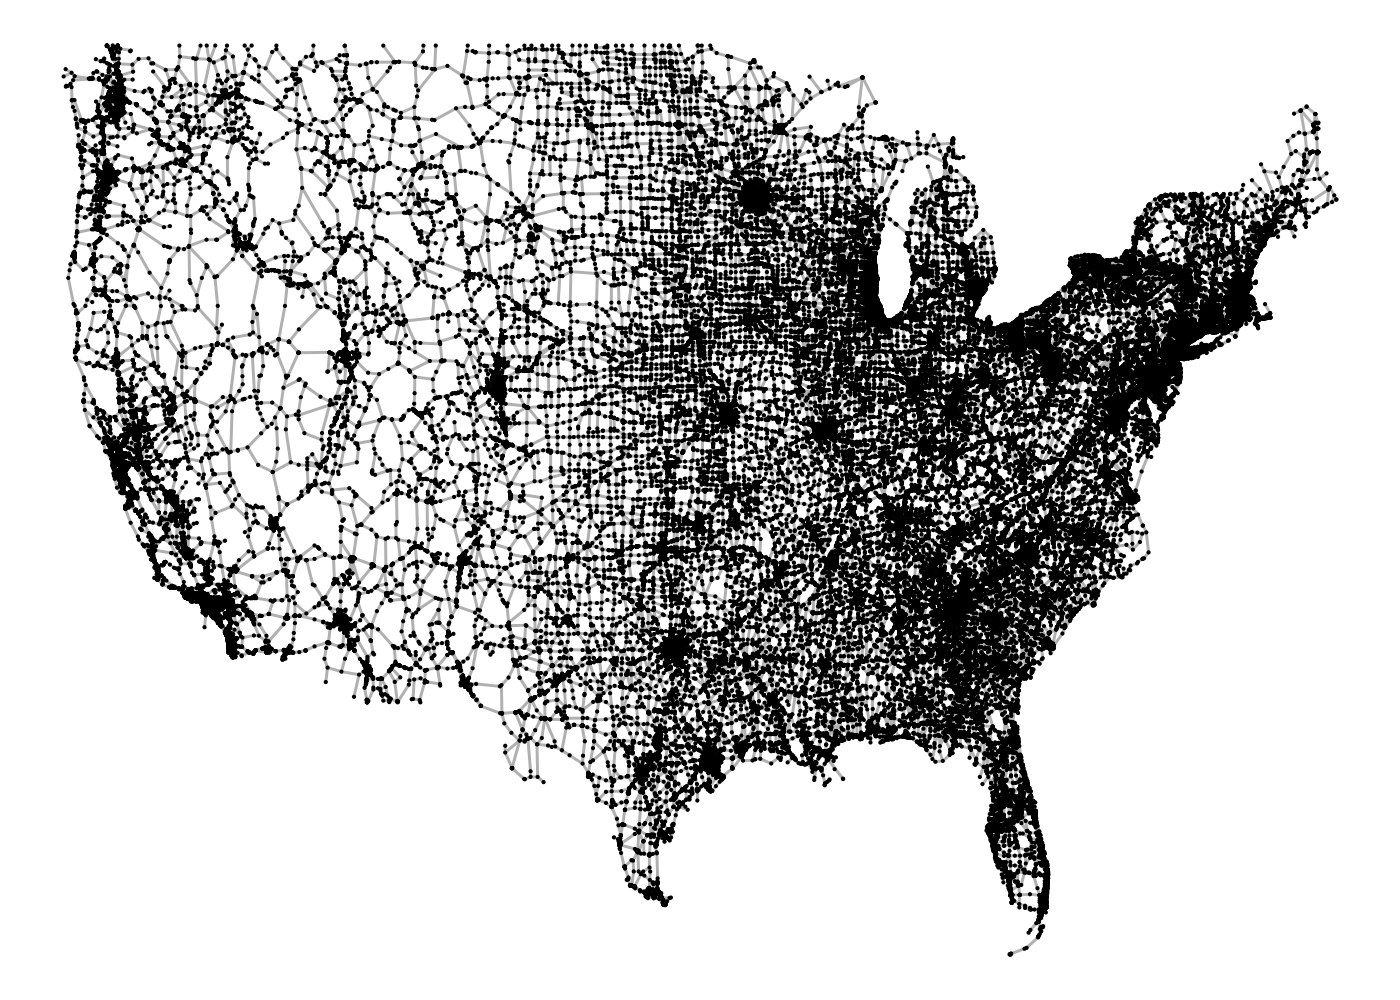
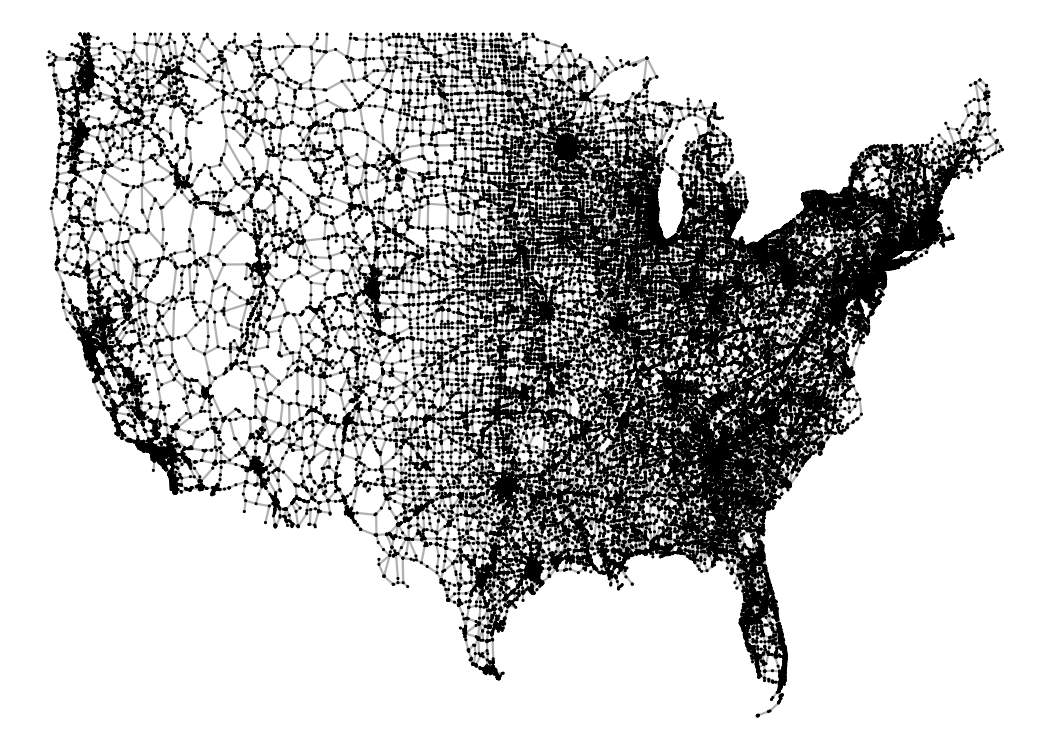
resize README img

diff --git a/README.md b/README.md
@@ -6,7 +6,7 @@ status](https://travis-ci.org/fabnavarro/gasper.svg?branch=master)](https://trav
 [![CRAN\_Status\_Badge](http://www.r-pkg.org/badges/version/gasper)](http://cran.r-project.org/package=gasper)
 
 Graph signal processing in R.
-<img src="README_files/figure-markdown_github/unnamed-chunk-1-1.png" width="50%" style="display: block; margin: auto;" />
+<img src="README_files/figure-markdown_github/unnamed-chunk-1-1.png" width="60%" style="display: block; margin: auto;" />
 
 Download and Install
 --------------------
@@ -79,4 +79,4 @@ download_graph(graphname,groupname)
 plot_graph(`usroads-48`, size = 0.05)
 ```
 
-<img src="README_files/figure-markdown_github/unnamed-chunk-8-1.png" width="50%" style="display: block; margin: auto;" />
+<img src="README_files/figure-markdown_github/unnamed-chunk-8-1.png" width="60%" style="display: block; margin: auto;" />
